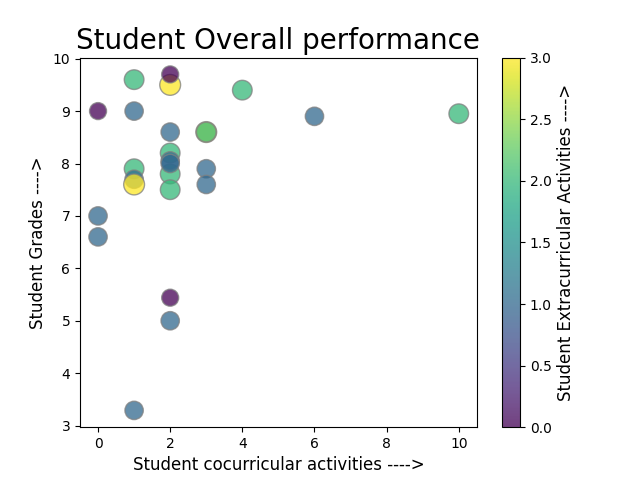
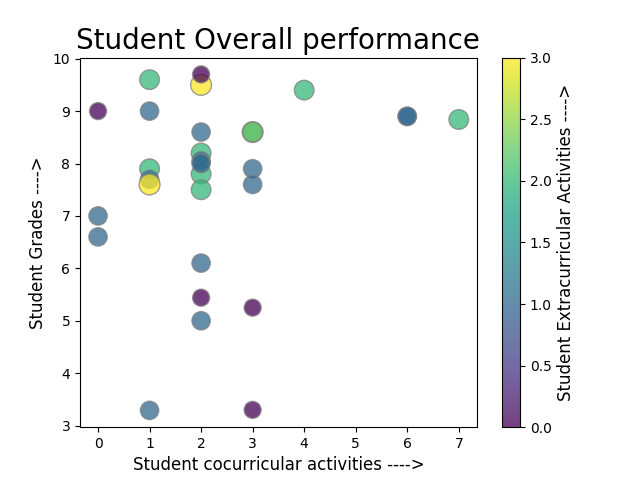
scatterplot synamic

diff --git a/server/nodeconnection.js b/server/nodeconnection.js
@@ -92,6 +92,8 @@ app.post('/submit', (req, res) => {
 
   const { spawn } = require('child_process')
   const hist = spawn('python', ['histogram.py'])
+
+  const scatter = spawn('python', ['scatterplot.py'])
   
   app.get('/userdetails',(req,res)=>{
     function count(username) {

diff --git a/server/scatterplot.py b/server/scatterplot.py
@@ -4,16 +4,19 @@ from connection import create_connection
 
 db = create_connection()
 colors = ['red', 'green', 'blue', 'orange', 'yellow', 'violet']
-# barWidth = 0.5
 df = pd.read_sql('select * from Studentdetails', con=db)
 
-# fig, ax = plt.subplots()
-# bars = ax.bar(df['name'], df['gpa'], color=colors, width=barWidth)
-
-# plt.show()
+weights = {}
+for i in range(len(df['Extra'])):
+    if df['Extra'][i] == 'Volunteer':
+        weights[df['Extra'][i]] = 1
+    elif df['Extra'][i] == 'Board Member':
+        weights[df['Extra'][i]] = 1
+    else:
+        weights[df['Extra'][i]] = 1
 
 plt.scatter(df['Nocert'], df['TotalGpa'], alpha=0.75, c=df['Extra'],
-            marker='o', cmap='viridis', s=25*df['Extra'] + 150, edgecolors='gray')
+            marker='o', cmap='viridis', s=75*weights + 150, edgecolors='gray')
 plt.title('Student Overall performance', fontsize=20)
 plt.xlabel('Student cocurricular activities ---->', fontsize=12)
 plt.ylabel('Student Grades ---->', fontsize=12)
@@ -21,6 +24,6 @@ plt.ylabel('Student Grades ---->', fontsize=12)
 cbar = plt.colorbar()
 cbar.set_label('Student Extracurricular Activities ---->', fontsize=12)
 
-# plt.show()
+plt.show()
 
-plt.savefig('./assets/img/Charts/scatter_plot.png')
+# plt.savefig('./assets/img/Charts/scatter_plot.png')
